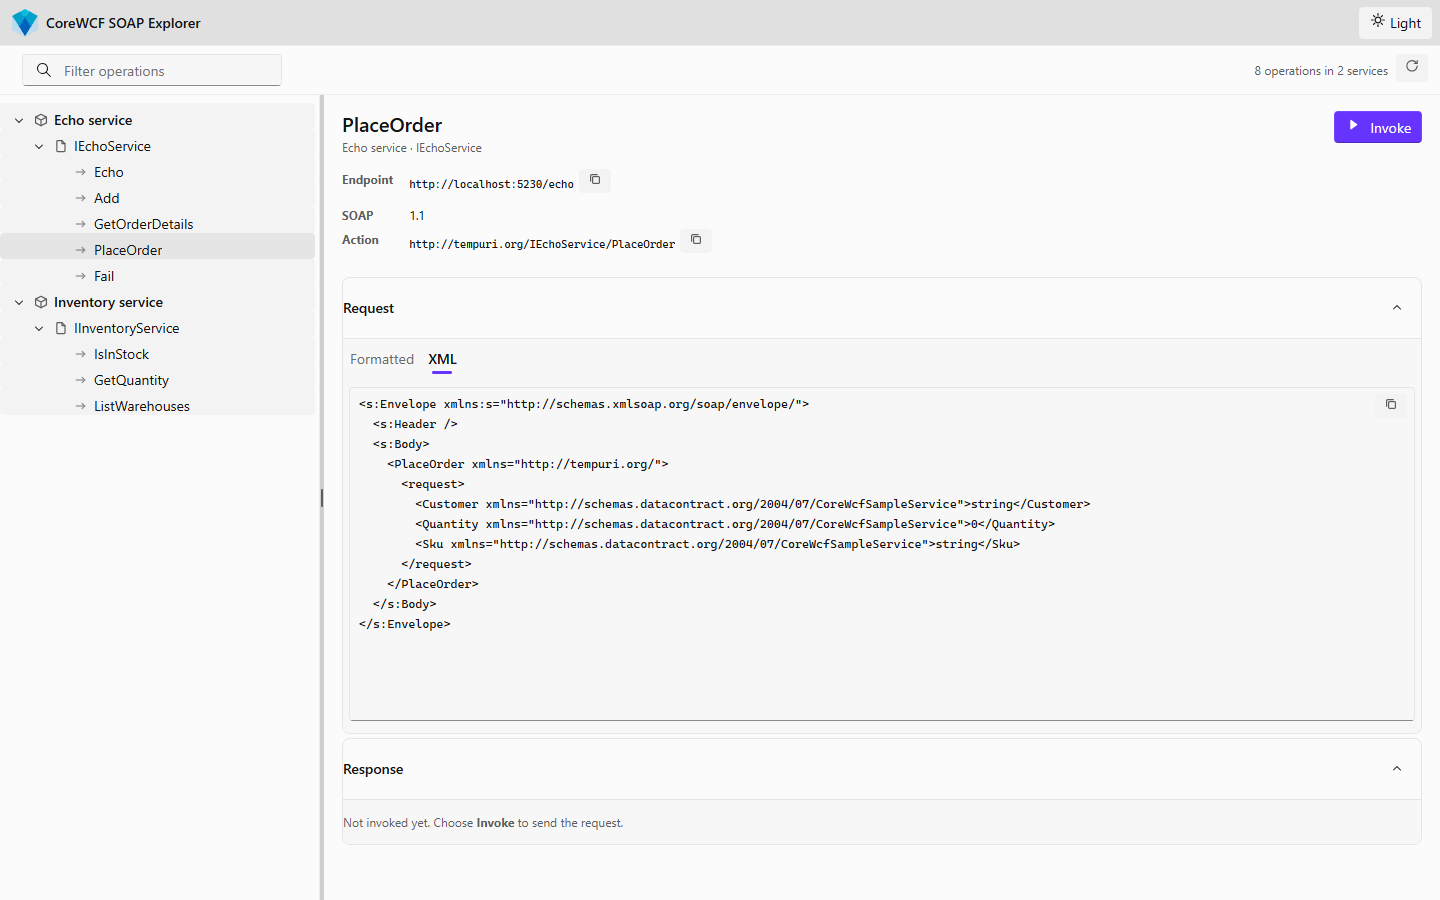
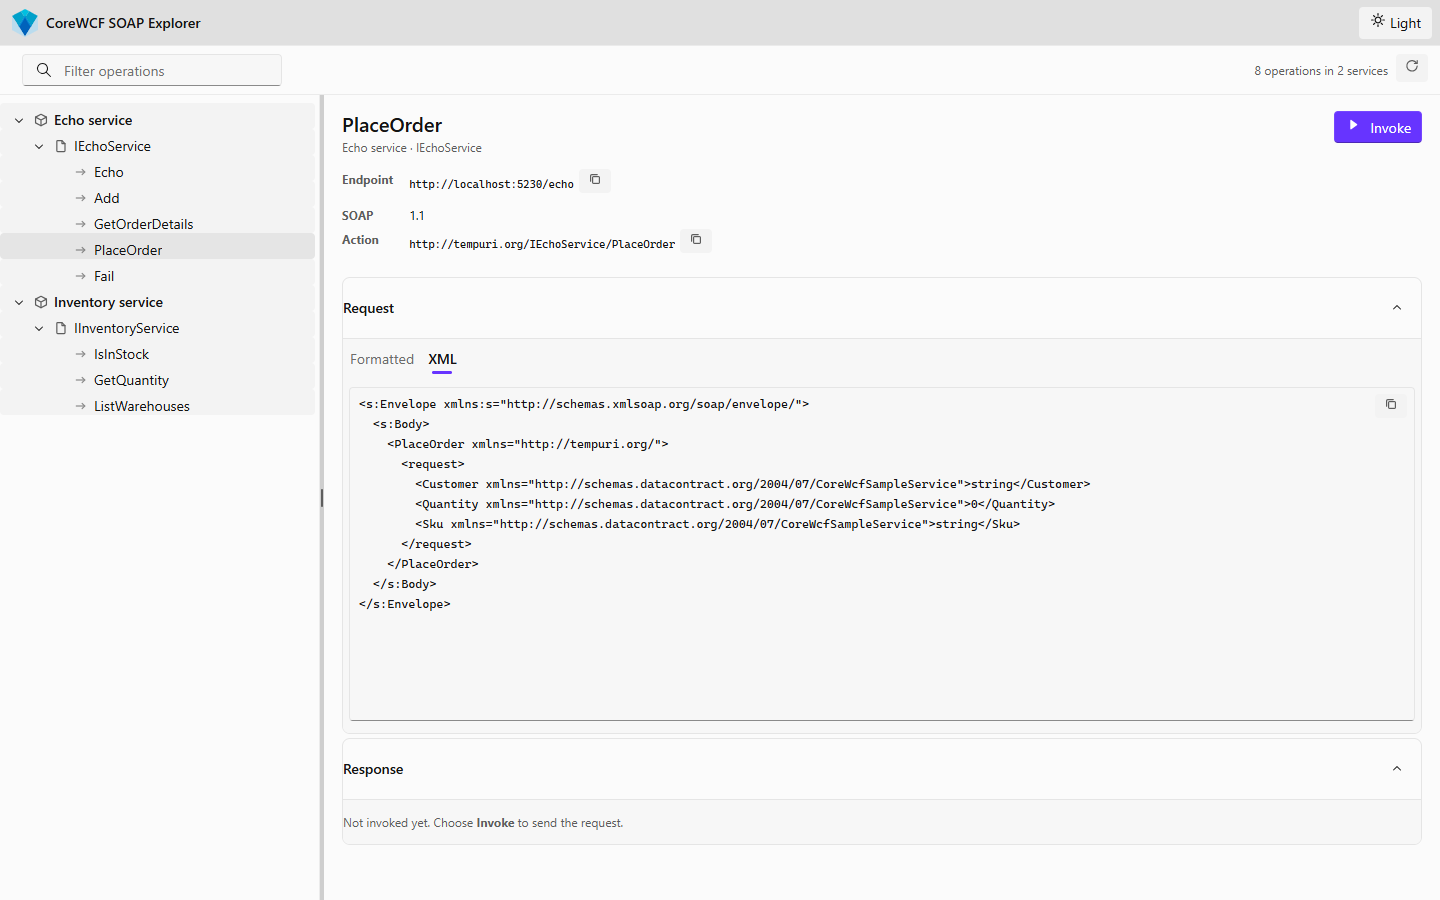
Document how the explorer reads and calls a service
Adds a "How it works" section covering the split the recent refactor
made explicit: WSDL is read with the WSDL object model, and operations
are invoked through the WCF client stack over
ChannelFactory<IRequestChannel>.

It records why the two halves use different libraries, which is the
question a reader of this repo will reasonably ask. WCF's own metadata
importer is not in the .NET client libraries - WsdlImporter and
MetadataExchangeClient stayed on .NET Framework, and dotnet-svcutil is a
design-time code generator rather than something callable at runtime - so
reading WSDL in a running app has no System.ServiceModel route.

WS-Addressing being off is now stated as a supported-scenario limit
rather than left implicit: endpoints that require addressing headers,
such as the default WSHttpBinding, will reject the request.

The faults section now explains that the reason and code are read with
MessageFault, so the code is reported as the version in play names it -
"SOAP fault (Client)" on 1.1, "SOAP fault (Sender)" on 1.2.

Two screenshots re-captured, both of which the refactor had made stale:
the fault bar now carries the code, and the sample envelope no longer
emits an empty <s:Header /> now that Message writes it.

Changed region(s): [[0.25, 0.4667, 0.75, 0.7156]]

diff --git a/Documentation/AspireExplorer/readme.md b/Documentation/AspireExplorer/readme.md
@@ -87,10 +87,16 @@ pretty-printed envelope, with a copy button.
 
 ### Faults
 
-A SOAP fault is not just a red status. The fault string is lifted out of the envelope and shown in
-its own message bar, and the raw envelope stays available on the XML tab:
+A SOAP fault is not just a red status. The fault reason and code are lifted out of the envelope and
+shown in their own message bar, and the raw envelope stays available on the XML tab.
 
-![A SOAP fault, with the fault string surfaced above the raw envelope](images/response-fault.png)
+The two SOAP versions spell a fault entirely differently — `faultcode`/`faultstring` in 1.1,
+`Code`/`Reason` in 1.2 — so the explorer reads them with WCF's own `MessageFault` rather than
+guessing at element names. The code is reported as the version in play actually names it, so the
+same failure reads `SOAP fault (Client)` against a 1.1 endpoint and `SOAP fault (Sender)` against
+a 1.2 one:
+
+![A SOAP fault, with the reason and code surfaced above the raw envelope](images/response-fault.png)
 
 ### Themes
 
@@ -110,10 +116,38 @@ to 768px nothing is lost and the page never scrolls sideways.
 
 ---
 
+## How it works
+
+Two halves, each using the library that fits it.
+
+**Reading the service.** The explorer fetches the flattened WSDL from `?singleWsdl` and reads it with
+`System.Web.Services.Description`, the WSDL object model, to get the contracts, their operations,
+each operation's SOAP version and action, and the shape of its request. The parameter grid and the
+sample envelope are both generated from the schema that comes with it.
+
+> WCF's own metadata importer — `WsdlImporter` and `MetadataExchangeClient` — is not part of the
+> .NET client libraries; it stayed behind on .NET Framework, and `dotnet-svcutil` is a design-time
+> code generator rather than something callable at runtime. Reading WSDL in a running app therefore
+> goes through the WSDL object model.
+
+**Calling the service.** Invocation goes through the WCF client stack, over a
+`ChannelFactory<IRequestChannel>`. The channel shape rather than a typed `ChannelFactory<T>`, because
+there is no compile-time contract to bind to — the operations came from WSDL read moments earlier.
+That leaves WCF in charge of the envelope, the SOAP version and the action header, and means a fault
+arrives as a message to be rendered rather than an exception to be caught.
+
+The request is built from the envelope exactly as it stands in the editor, so anything you add by
+hand — including headers — is sent as written.
+
+**WS-Addressing is off.** Endpoints that require addressing headers are not supported: turning it on
+would break plain `BasicHttpBinding` services, which are what this tool is usually pointed at.
+
 ## Notes and limits
 
-- **Transport.** The explorer speaks SOAP 1.1 and 1.2 over HTTP. Services must expose metadata
-  (`?singleWsdl`) for the explorer to read them — `ServiceMetadataBehavior.HttpGetEnabled`.
+- **Transport.** The explorer speaks SOAP 1.1 and 1.2 over HTTP and HTTPS. Services must expose
+  metadata (`?singleWsdl`) for the explorer to read them — `ServiceMetadataBehavior.HttpGetEnabled`.
+- **No WS-Addressing.** See *How it works* above. Endpoints that require addressing headers, such as
+  the default `WSHttpBinding`, will reject the request.
 - **No authentication.** Requests are sent as-is, with no credentials attached. It is a development
   tool; do not expose it to an untrusted network.
 - **Below 768px is unsupported.** The two-pane layout has no phone form factor.
